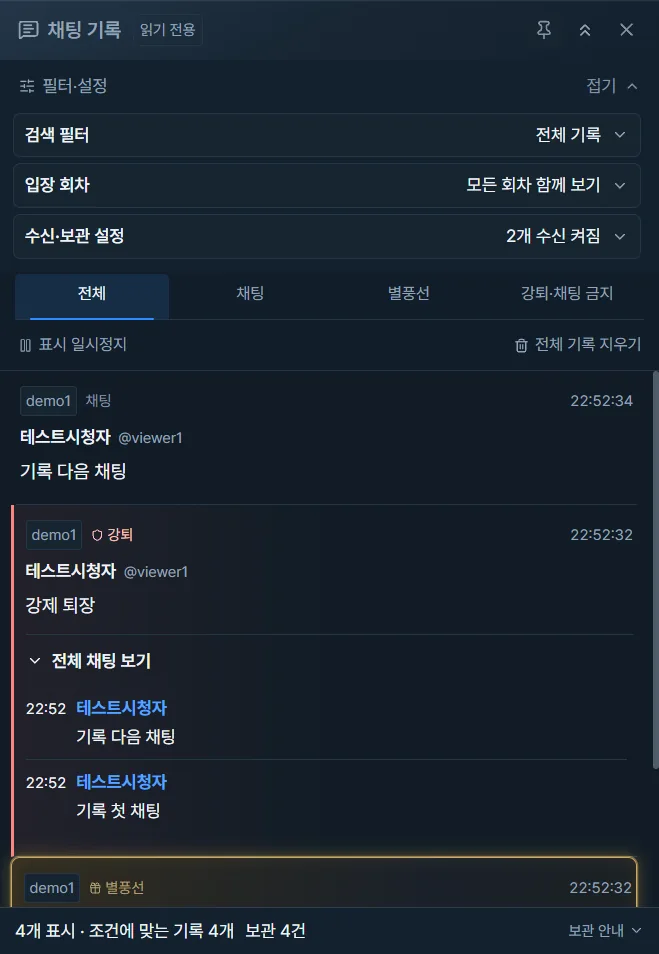
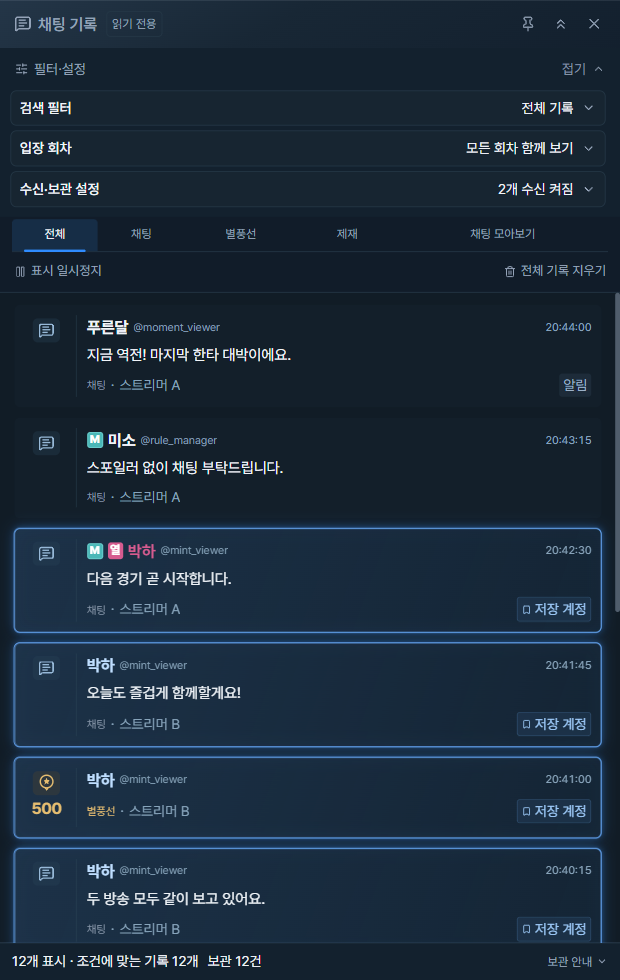
Refresh download-page chat and alerts screenshots from SOOP Lens 2.1.5

diff --git a/index.html b/index.html
@@ -29,7 +29,7 @@
 <figure class="hero-visual" data-reveal>
 <div class="visual-stage">
 <div class="lens-plaque glass"><img src="assets/soop-lens-mark.webp" alt="SOOP Lens의 네 가지 색 렌즈 로고" width="104" height="104"><div><strong>SOOP Lens</strong><span>See more together.</span></div></div>
-<div class="screen-shot shot-chat"><img src="assets/records-chat.webp" alt="채팅 검색과 제재 대화를 함께 보여주는 앱 기록창" width="659" height="954" fetchpriority="high"></div>
+<div class="screen-shot shot-chat"><img src="assets/records-chat.webp?v=2.1.5" alt="2.1.5 채팅 기록창: 저장 계정 강조와 매니저 M 표식" width="620" height="980" fetchpriority="high"></div>
 <div class="screen-shot shot-donations"><img src="assets/records-donations.webp" alt="후원 종류를 구분하고 대량 후원을 강조하는 앱 별풍선 기록창" width="488" height="1034" fetchpriority="high"></div>
 </div><figcaption>실제 앱 화면 · 예시 데이터로 구성한 기록창</figcaption>
 </figure>
@@ -61,11 +61,11 @@
 <a class="text-link" href="https://github.com/felixlsh/soop-multiview/blob/main/USER_GUIDE.md">세세한 기능과 사용법 <svg xmlns="http://www.w3.org/2000/svg" width="20" height="20" viewBox="0 0 24 24" fill="none" stroke="currentColor" stroke-width="1.65" stroke-linecap="round" stroke-linejoin="round" class="lucide lucide-arrow-right" aria-hidden="true" focusable="false"><path d="M5 12h14"></path><path d="m12 5 7 7-7 7"></path></svg></a>
 </div>
 <div class="record-preview glass" data-reveal>
-<figure id="preview-chat" class="record-panel" data-panel="chat"><img src="assets/records-chat.webp" alt="채팅 기록창: 검색 필터, 입장 회차, 수신·보관 설정과 전체·채팅·별풍선·제재 탭" width="659" height="954" loading="lazy"></figure>
+<figure id="preview-chat" class="record-panel" data-panel="chat"><img src="assets/records-chat.webp?v=2.1.5" alt="2.1.5 채팅 기록창: 저장 계정 Glow, 매니저 M 표식, 채팅 모아보기 탭과 접히는 필터" width="620" height="980" loading="lazy"></figure>
 <figure id="preview-donations" class="record-panel" data-panel="donations"><img src="assets/records-donations.webp" alt="별풍선 기록창: 종류별 수량 배지, 후원자 정보, 대량 후원 Glow 강조" width="488" height="1034" loading="lazy"></figure>
 <figure id="preview-moderation" class="record-panel" data-panel="moderation"><img src="assets/records-moderation.webp" alt="제재 기록창: 강퇴·채금 구분, 방송 이름과 대화 펼치기" width="545" height="729" loading="lazy"></figure>
-<figure id="preview-alerts" class="record-panel" data-panel="alerts"><img src="assets/records-alerts.webp" alt="알림함: 접을 수 있는 필터 설정과 관련 채팅 확인" width="488" height="1034" loading="lazy"></figure>
-<p class="preview-caption">실제 앱 화면 · 예시 데이터</p>
+<figure id="preview-alerts" class="record-panel" data-panel="alerts"><img src="assets/records-alerts.webp?v=2.1.5" alt="2.1.5 알림함: 접히는 필터, 1,000개 이상 대량 후원, 키워드·방송 시작 알림" width="620" height="980" loading="lazy"></figure>
+<p class="preview-caption">실제 앱 화면 · 예시 데이터 (채팅·알림: 2.1.5)</p>
 </div></div></section>
 <section id="changes" class="section wrap" aria-labelledby="changes-title"><div class="changes-layout">
 <div class="section-heading" data-reveal><p class="section-label">새로운 SOOP Lens</p><h2 id="changes-title">2.1.5,<br>시청 공간을 이어갑니다.</h2><p class="section-description">저장한 방송을 함께 열고,<br>눈에 띄는 순간을 번호 카드에서 확인하세요.</p><a class="text-link" href="https://github.com/felixlsh/soop-multiview/releases/tag/v2.1.5">전체 변경 내역과 검증 결과 <svg xmlns="http://www.w3.org/2000/svg" width="20" height="20" viewBox="0 0 24 24" fill="none" stroke="currentColor" stroke-width="1.65" stroke-linecap="round" stroke-linejoin="round" class="lucide lucide-arrow-up-right" aria-hidden="true" focusable="false"><path d="M7 7h10v10"></path><path d="M7 17 17 7"></path></svg></a></div>
